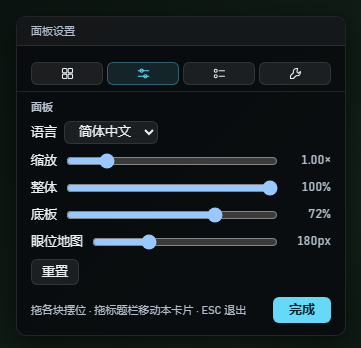
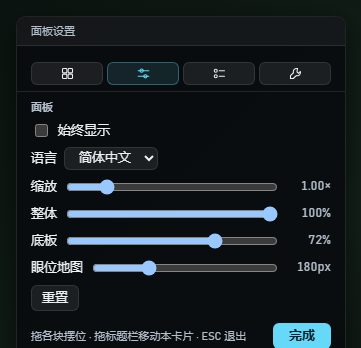
docs: README 补上始终显示、托盘左键、按对局分文件
发 1.3.3 之前扫了一遍，四处滞后：

  「面板」页多了「始终显示」，两份 README 的那一格说明都没写，
  card-panel 的中英两张截图也过时了——用 make_shots.py 重出。
  卡片四页被 pinPaneHeight 拉到同高，实测加一行之后仍是 361x348，
  另外三页的截图不受影响，没动。

  托盘左键单击一直是坏的（v1.3.2 修的），所以 README 里只写了右键菜单。
  现在补上"左键单击进编辑态"，并把菜单项写成实际的「编辑面板 (Ctrl+Alt+F10)」。

  records/ 那行补上"一局一个文件，名字带对局号"。

  「平时它不在」那节加一句「始终显示」的存在与边界——只去掉"按住 Alt"这个条件，
  回主菜单照样消失。这句要写清楚，否则会被当成"永远杵在桌面上"。

diff --git a/README.md b/README.md
@@ -43,8 +43,8 @@ colour, not real gameplay.</sub>
    the GSI config file on first run
 5. Get into a match and **hold Alt**
 
-That's it. To move things around or turn cells off: right-click the tray icon →
-"Edit panel" (or `Ctrl+Alt+F10`).
+That's it. To move things around or turn cells off: **left-click the tray icon**,
+or right-click → "Edit panel (Ctrl+Alt+F10)".
 
 > **Panel never shows up?** Check steps 2 and 3 first — no non-injecting overlay can
 > draw over exclusive fullscreen, which is an OS-level limitation rather than a bug
@@ -131,6 +131,10 @@ Alt is detected passively by polling the key state. It **registers no hotkey and
 swallows no input**, so Alt's normal in-game behaviour (Alt-clicking the map and so on)
 is completely unaffected.
 
+> If you'd rather not hold Alt, there's an **Always show** setting. It only removes the
+> "hold Alt" condition — **it still disappears back in the main menu**, it won't sit on
+> your desktop.
+
 ### What's supported
 
 | | |
@@ -149,14 +153,15 @@ is completely unaffected.
 
 ## Making it yours
 
-Right-click the tray icon → "Edit panel" (or `Ctrl+Alt+F10`). The four blocks —
+**Left-click the tray icon** (or right-click → "Edit panel (Ctrl+Alt+F10)", or just
+press the hotkey). The four blocks —
 **timers / enemy / net worth / ward map** — become permanently visible and individually
 draggable, and a settings card floats up. The card has four pages, switched by icon:
 
 |  |  |
 |---|---|
 | ![Display](docs/images/card-show.png) | ![Panel](docs/images/card-panel.png) |
-| **Display** — a toggle for each of the nine cells | **Panel** — language, scale, opacity, backdrop, map size, reset |
+| **Display** — a toggle for each of the nine cells | **Panel** — always show, language, scale, opacity, backdrop, map size, reset |
 | ![Legend](docs/images/card-legend.png) | ![Developer](docs/images/card-dev.png) |
 | **Legend** — what every colour and shape on the map means | **Developer** — log level, match recording, data folder, versions |
 
@@ -182,7 +187,7 @@ All under `%APPDATA%\dev.dota2helper2.app\`:
 | `settings.json` | Everything from the card |
 | `layout.json` | Where each of the four blocks sits |
 | `logs/` | Run log (rotates past 5 MB, one backup kept) |
-| `records/` | Match recordings (off by default) |
+| `records/` | Match recordings (off by default). **One file per match**, with the match id in the name: `raw_<secs>_m<matchid>.jsonl.gz` |
 
 ### Uninstalling
 
